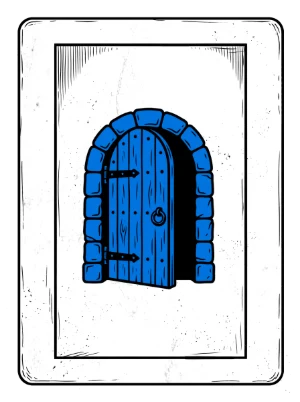
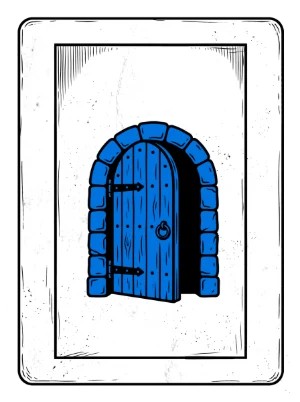
Nova arte da carta Passar turno (porta menor)

Changed region(s): [[0.27, 0.2687, 0.75, 0.7761]]

diff --git a/index.html b/index.html
@@ -8,7 +8,7 @@
   <meta http-equiv="Content-Security-Policy" content="default-src 'self'; script-src 'self' https://cdnjs.cloudflare.com https://cdn.jsdelivr.net; style-src 'self' 'unsafe-inline'; img-src 'self' data: blob:; font-src 'self'; connect-src 'self' https://0.peerjs.com wss://0.peerjs.com; object-src 'none'; base-uri 'self'; form-action 'none'; frame-src 'none'">
   <meta name="referrer" content="no-referrer">
   <title data-i18n="jogo.nome">Lady and Gentlemen</title>
-  <link rel="stylesheet" href="estilo.css?v=202610202312">
+  <link rel="stylesheet" href="estilo.css?v=202610202323">
   <script src="https://cdnjs.cloudflare.com/ajax/libs/three.js/r128/three.min.js"></script>
   <script src="https://cdnjs.cloudflare.com/ajax/libs/cannon.js/0.6.2/cannon.min.js"></script>
   <script src="https://cdnjs.cloudflare.com/ajax/libs/peerjs/1.5.4/peerjs.min.js"></script>
@@ -60,16 +60,16 @@
   <div id="modal" hidden></div>
   <div id="dica" hidden></div>
 
-  <script src="js/idioma.js?v=202610202312"></script>
-  <script src="js/motor.js?v=202610202312"></script>
-  <script src="js/palhacos.js?v=202610202312"></script>
-  <script src="js/pesos.js?v=202610202312"></script>
-  <script src="js/bot.js?v=202610202312"></script>
-  <script src="js/cartas.js?v=202610202312"></script>
-  <script src="js/dados3d.js?v=202610202312"></script>
-  <script src="js/decks.js?v=202610202312"></script>
-  <script src="js/regras.js?v=202610202312"></script>
-  <script src="js/rede.js?v=202610202312"></script>
-  <script src="js/interface.js?v=202610202312"></script>
+  <script src="js/idioma.js?v=202610202323"></script>
+  <script src="js/motor.js?v=202610202323"></script>
+  <script src="js/palhacos.js?v=202610202323"></script>
+  <script src="js/pesos.js?v=202610202323"></script>
+  <script src="js/bot.js?v=202610202323"></script>
+  <script src="js/cartas.js?v=202610202323"></script>
+  <script src="js/dados3d.js?v=202610202323"></script>
+  <script src="js/decks.js?v=202610202323"></script>
+  <script src="js/regras.js?v=202610202323"></script>
+  <script src="js/rede.js?v=202610202323"></script>
+  <script src="js/interface.js?v=202610202323"></script>
 </body>
 </html>
